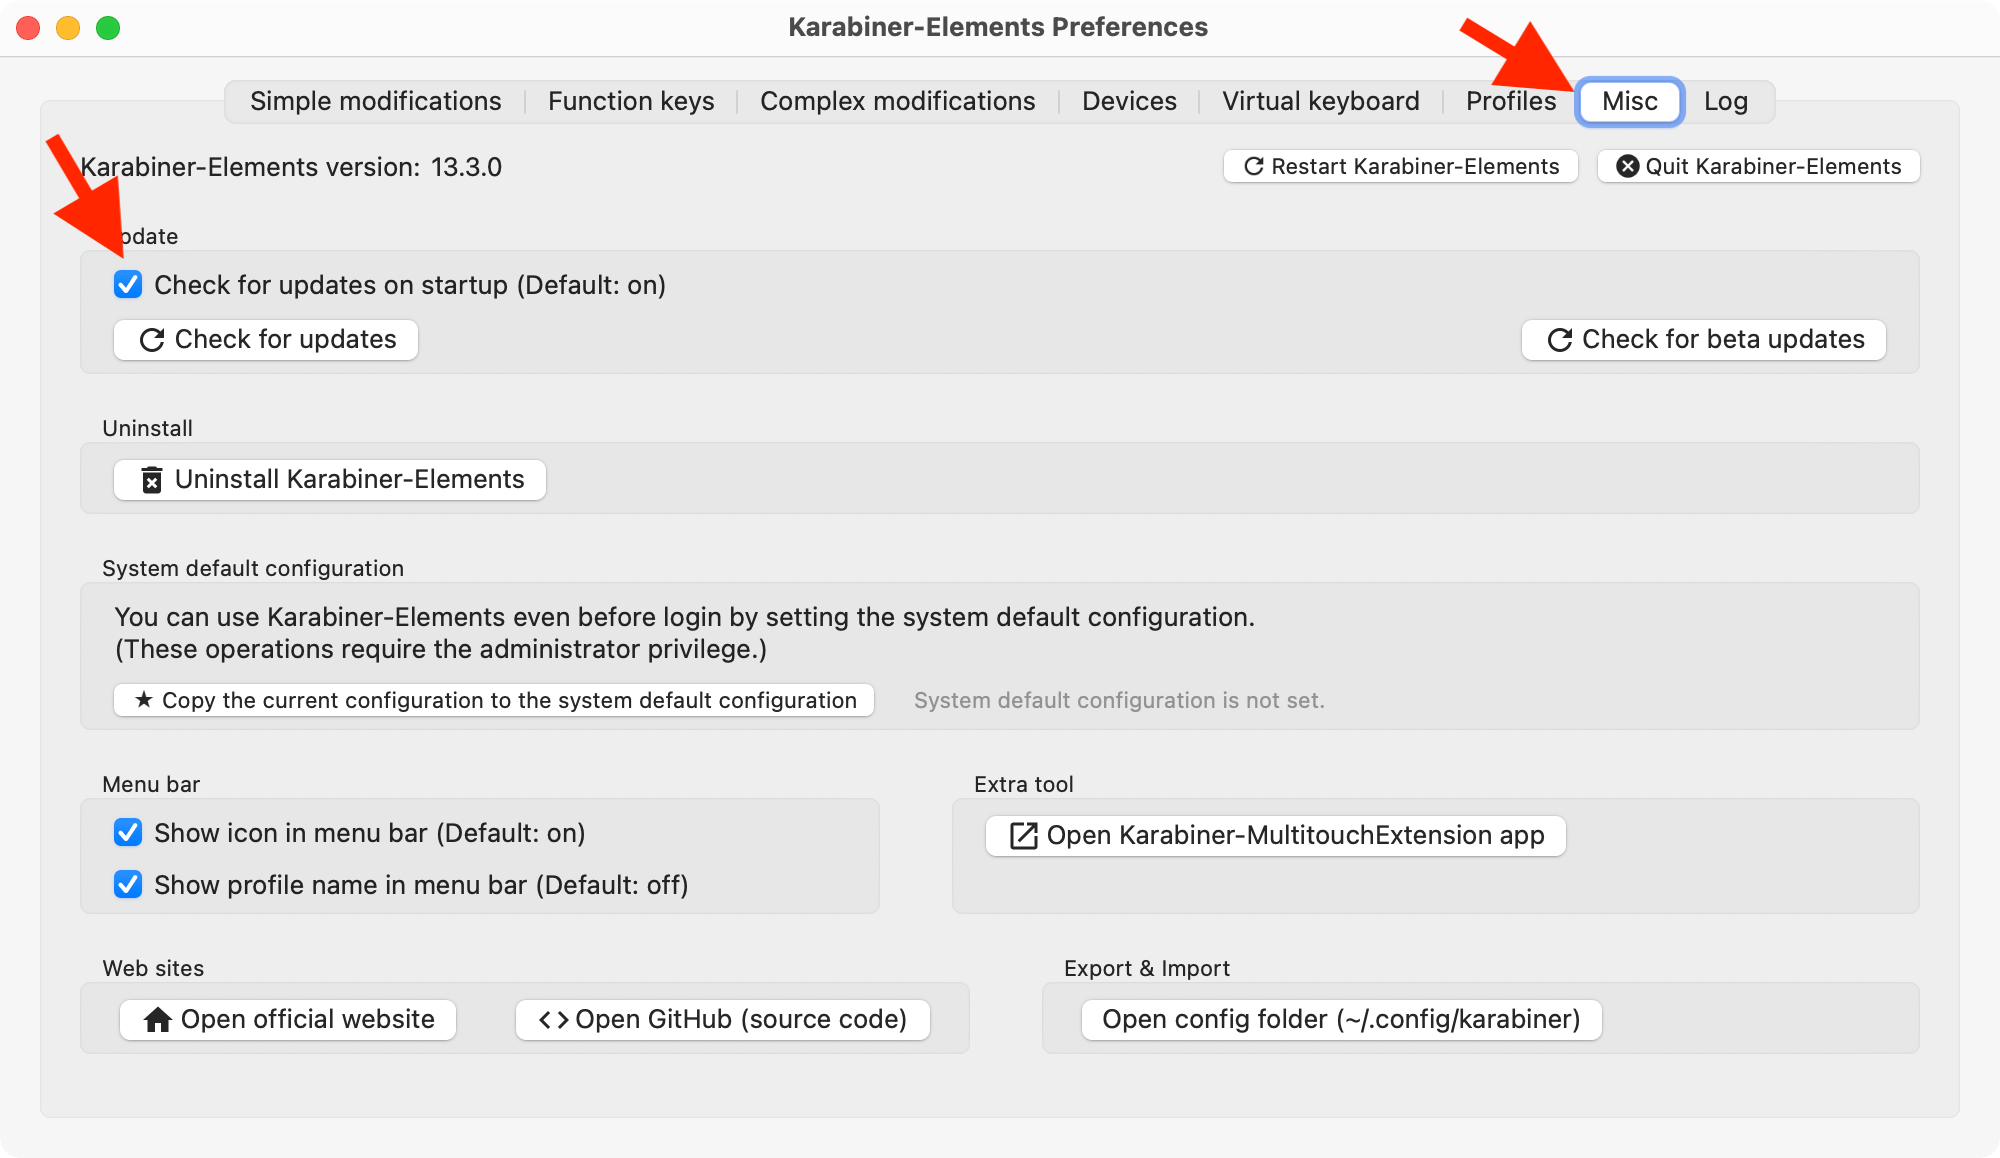
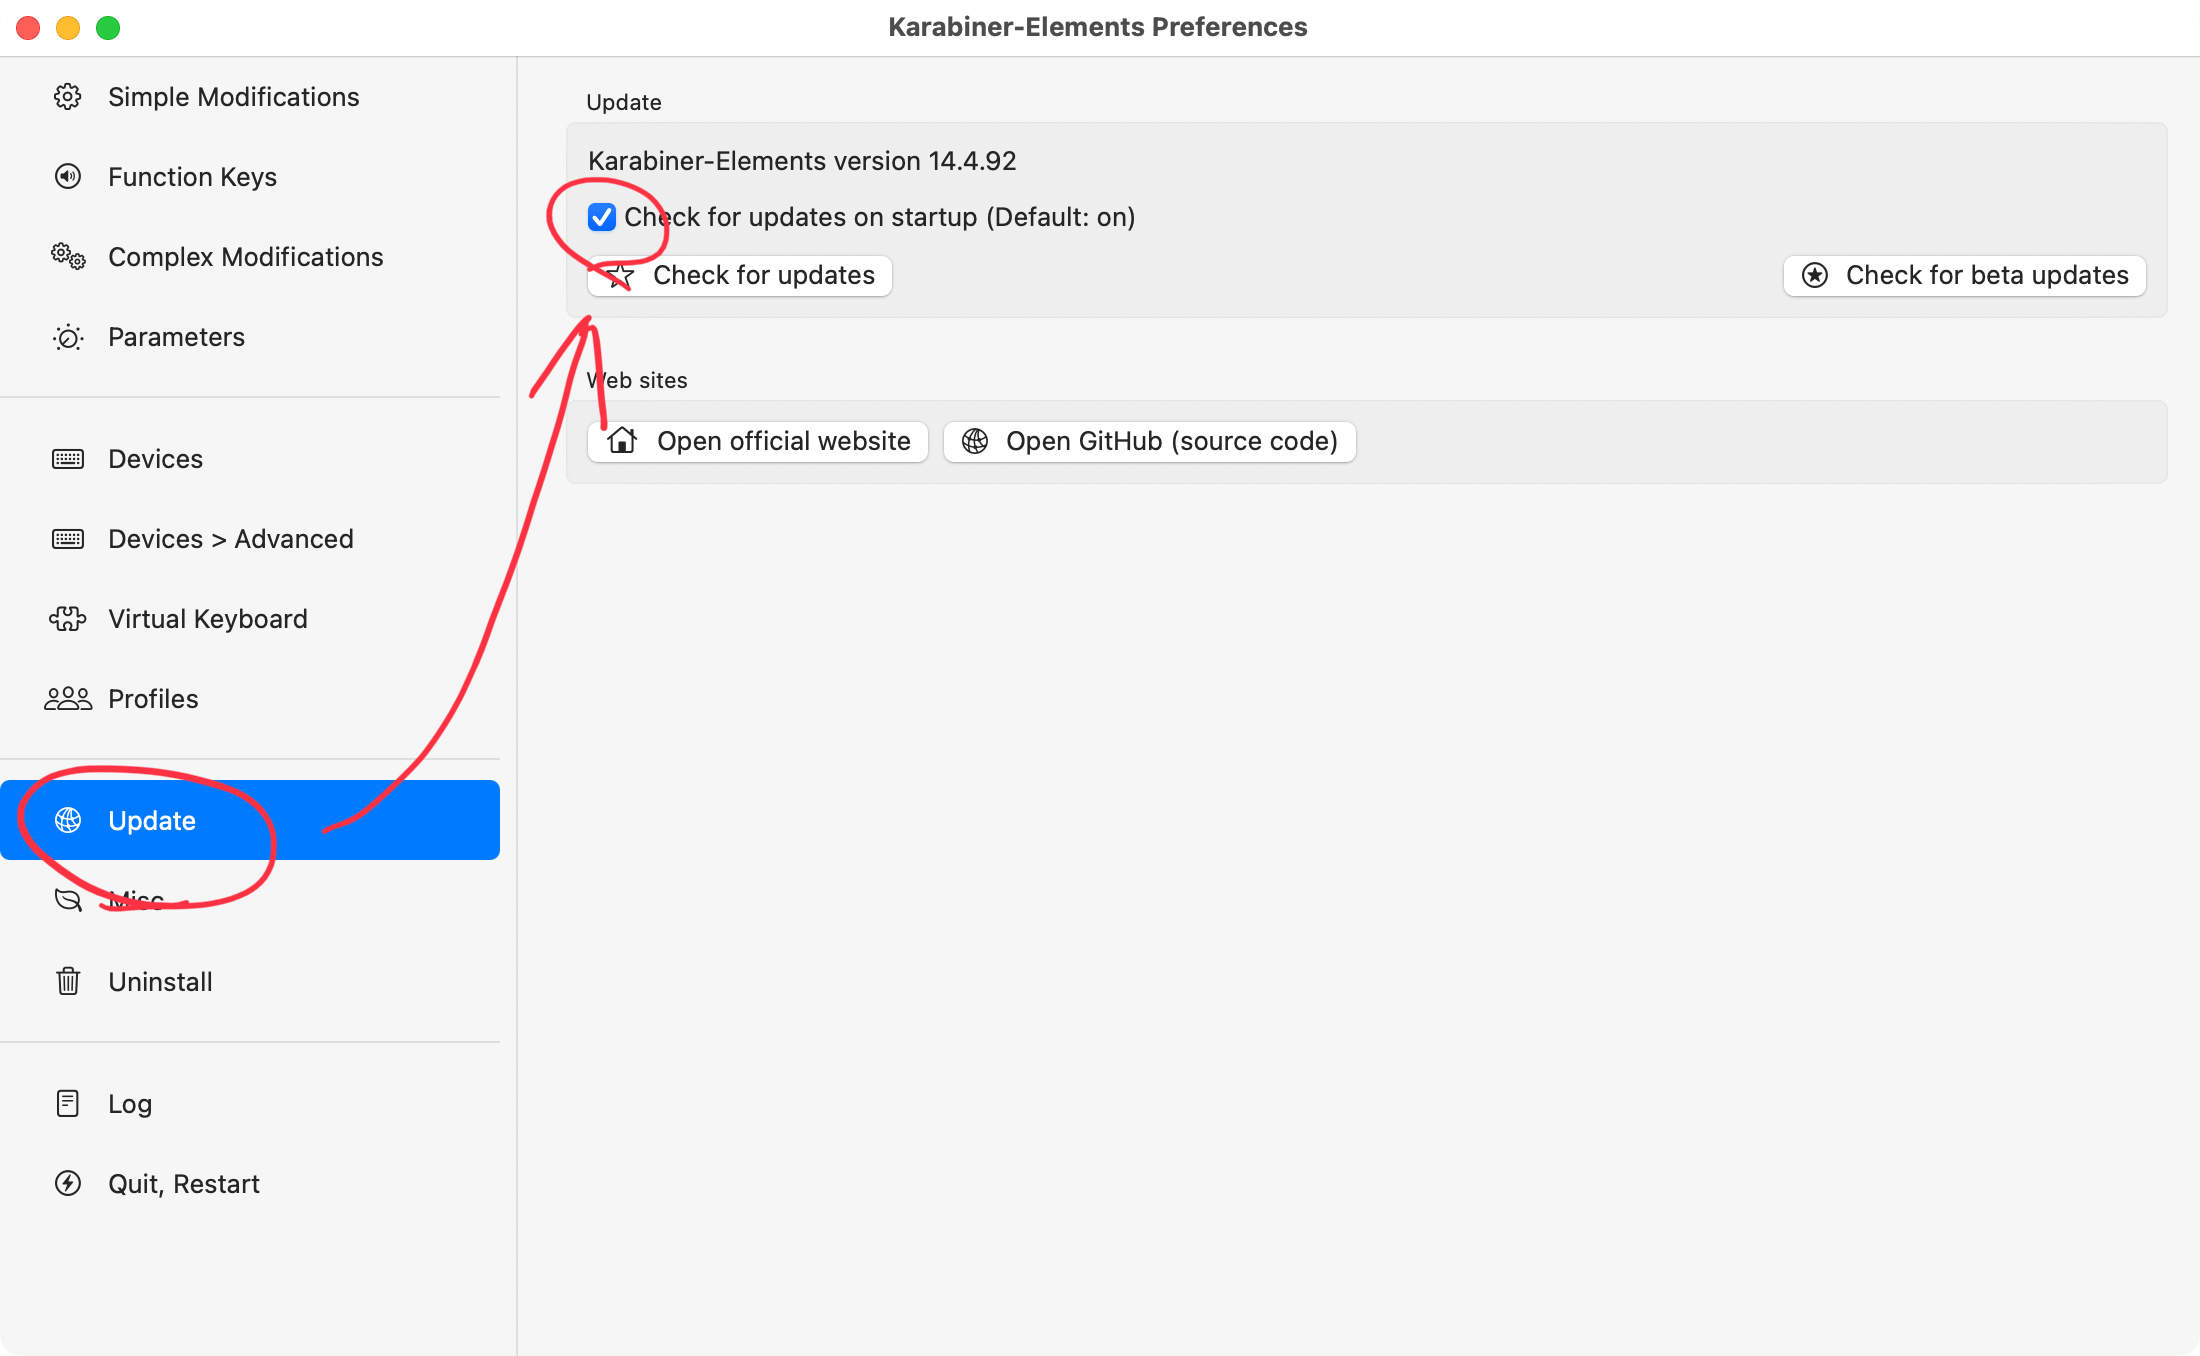
Update privacy

diff --git a/sites/karabiner-elements/content/en/docs/privacy/index.md b/sites/karabiner-elements/content/en/docs/privacy/index.md
@@ -22,6 +22,8 @@ The URLs to send the version information are as follows:
 -   <https://appcast.pqrs.org/karabiner-elements-appcast.xml>
 -   <https://appcast.pqrs.org/karabiner-elements-appcast-devel.xml>
 
+You can change the automatic update setting in Update tab.
+
 {{< local-image src="images/automatic-update@2x.png" >}}
 
 {{% /alert %}}
